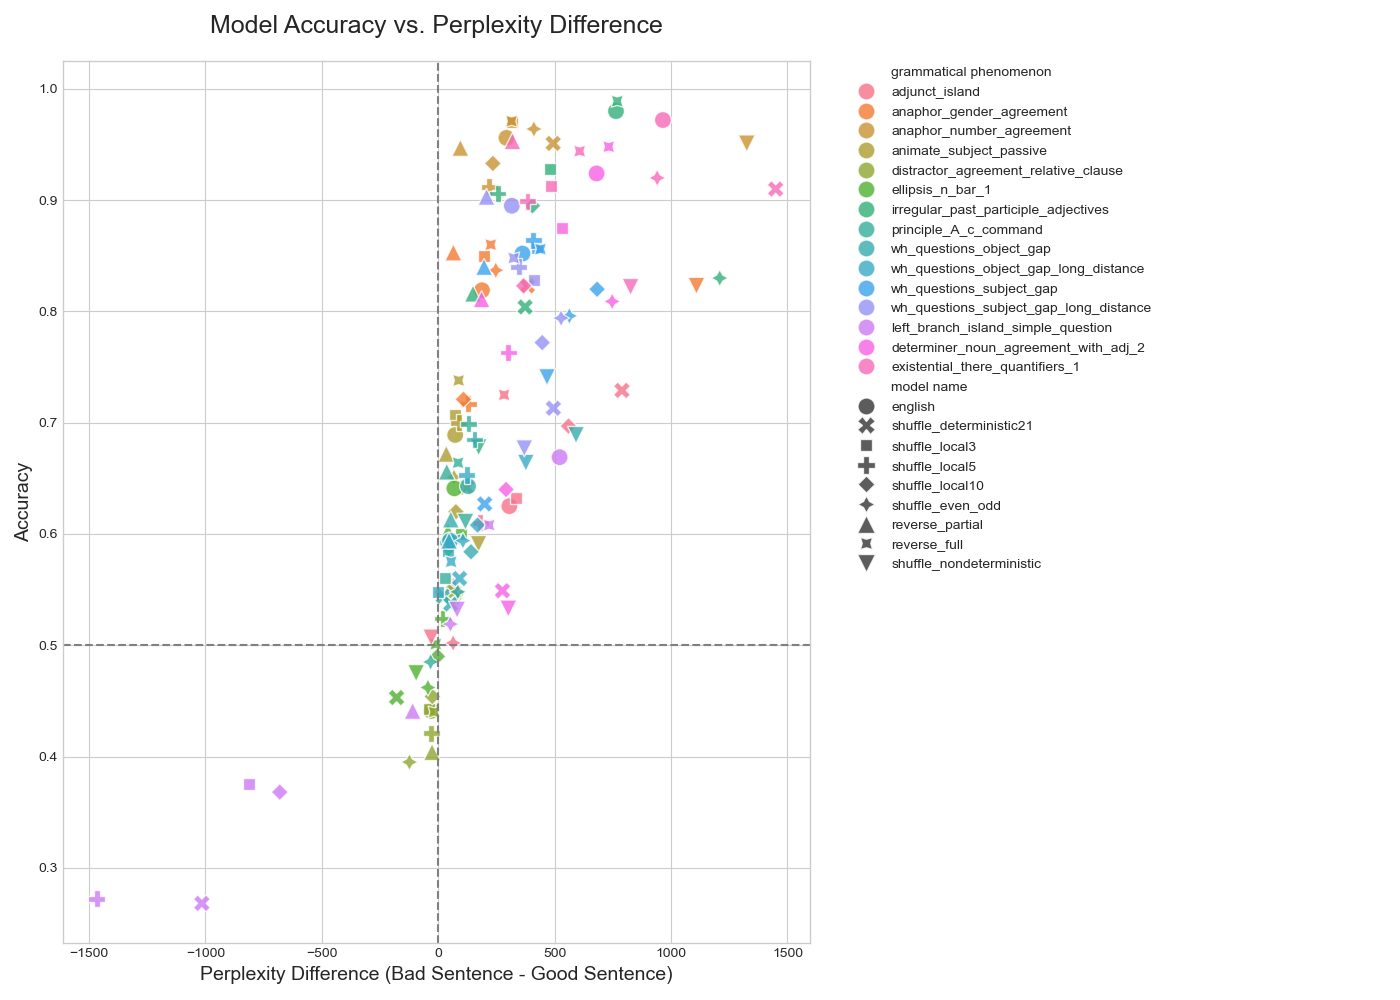
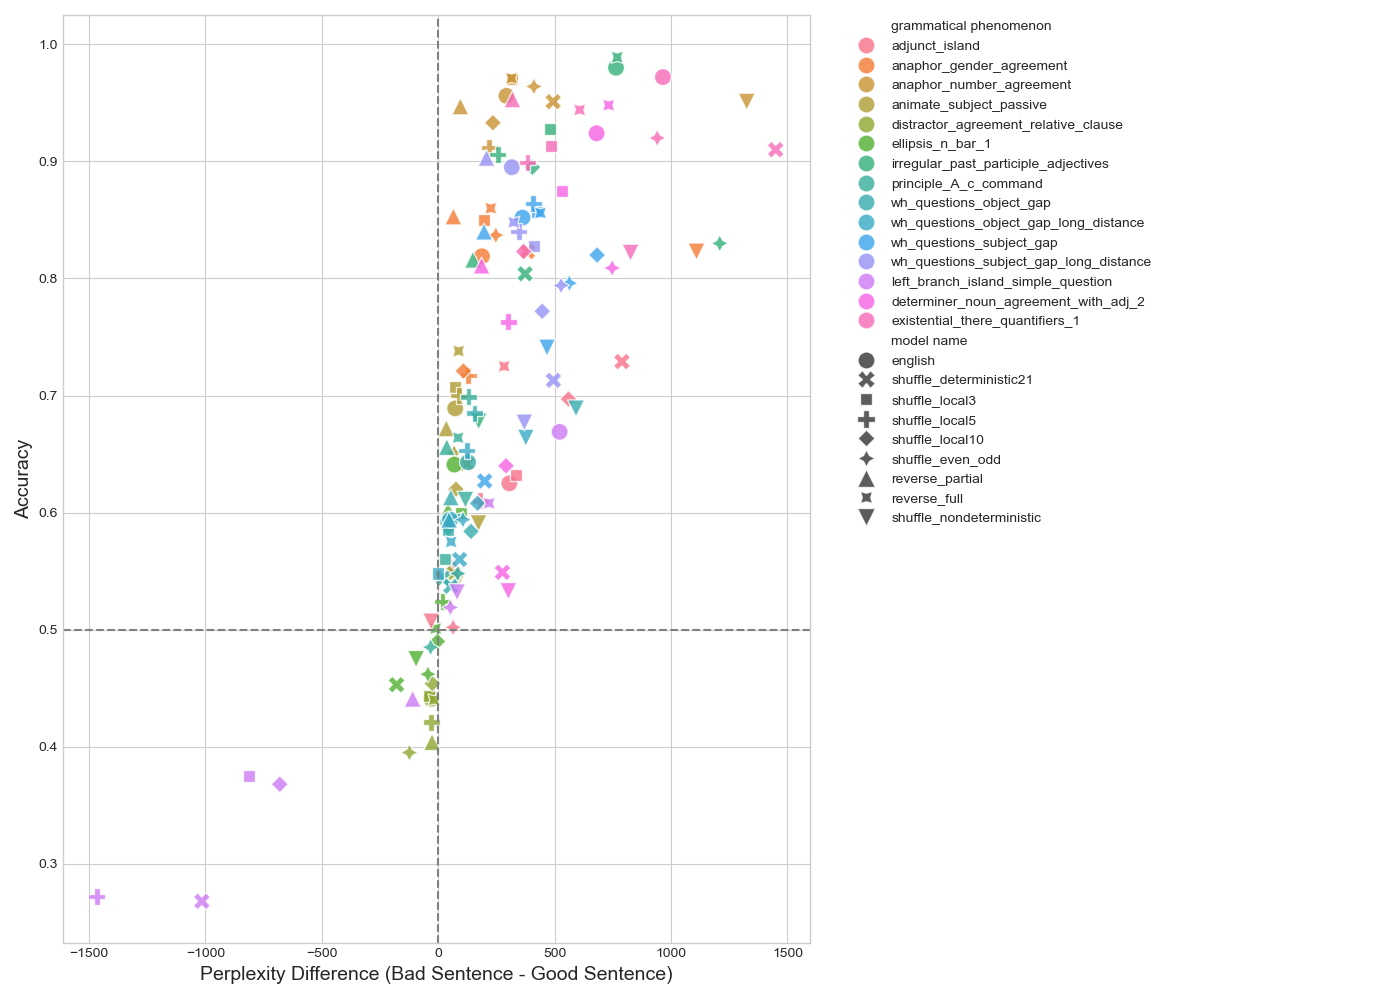
Add script for plotting phenomena grouped counts. Remove title from perplexity plot

diff --git a/analysis/performance_statistics.py b/analysis/performance_statistics.py
@@ -83,6 +83,42 @@ MODEL_ORDER = [
     "shuffle_nondeterministic",
 ]
 
+def plot_phenomenon_group_counts(
+    csv_path: str = "experiments/output/v2/results.csv",
+    output_path: str = "analysis/output/phenomenon_group_counts.png"
+):
+    """
+    Plots a PNG image: x-axis is phenomenon groups (PHENOMENA_ORDER, labeled with PHENOMENA_ABR),
+    one row is the count of unique phenomena in each group (from results.csv).
+    """
+    import matplotlib.pyplot as plt
+    import os
+    df = pd.read_csv(csv_path)
+    present_phenomena = set(df["grammatical phenomenon"].unique())
+    group_counts = {g: 0 for g in PHENOMENA_ORDER}
+    for p, g in PHENOMENA_LIST_MAP.items():
+        if p in present_phenomena and g in PHENOMENA_ORDER:
+            group_counts[g] += 1
+    # Prepare data for plotting
+    x_labels = [PHENOMENA_ABR.get(g, g) for g in PHENOMENA_ORDER]
+    counts = [group_counts[g] for g in PHENOMENA_ORDER]
+    # Plot
+    fig, ax = plt.subplots(figsize=(max(8, len(x_labels)), 3))
+    ax.imshow([counts], cmap="Blues", aspect="auto")
+    # Set x-ticks and labels
+    ax.set_xticks(range(len(x_labels)))
+    ax.set_xticklabels(x_labels, rotation=30, ha='right')
+    ax.set_yticks([0])
+    ax.set_yticklabels(["# Phenomena"], rotation=0)
+    # Annotate counts
+    for i, count in enumerate(counts):
+        ax.text(i, 0, str(count), va='center', ha='center', color='black', fontsize=14, fontweight='bold')
+    plt.tight_layout()
+    os.makedirs(os.path.dirname(output_path), exist_ok=True)
+    plt.savefig(output_path, dpi=200, bbox_inches='tight')
+    plt.close()
+    print(f"Phenomenon group counts image saved to {output_path}")
+
 def plot_model_group_performance_table(
     csv_path: str = "experiments/output/v2/results.csv",
     output_dir: str = "analysis/output",
@@ -215,28 +251,29 @@ def percent_non_english_best_model(csv_path="experiments/output/v2/results.csv")
     return percent
 
 def main():
-    save_performance_table_image(PHENOMENA_LIST, output_filename="performance_table_overall.png")
-    save_performance_table_image([
-            "anaphor_gender_agreement",
-            "anaphor_number_agreement",
-            "animate_subject_passive",
-            "determiner_noun_agreement_with_adj_2",
-            "existential_there_quantifiers_1"
-        ], output_filename="performance_table_local.png")
-    save_performance_table_image([
-        "adjunct_island",
-        "distractor_agreement_relative_clause",
-        "ellipsis_n_bar_1",
-        "principle_A_c_command",
-        "wh_questions_object_gap",
-        "wh_questions_object_gap_long_distance",
-    ], output_filename="performance_table_structural.png")
-    save_performance_table_image([
-        "wh_questions_subject_gap",
-        "wh_questions_subject_gap_long_distance",
-    ], output_filename="performance_table_subject.png")
-    plot_model_group_performance_table()
     # percent_non_english_best_model()
+    # save_performance_table_image(PHENOMENA_LIST, output_filename="performance_table_overall.png")
+    # save_performance_table_image([
+    #         "anaphor_gender_agreement",
+    #         "anaphor_number_agreement",
+    #         "animate_subject_passive",
+    #         "determiner_noun_agreement_with_adj_2",
+    #         "existential_there_quantifiers_1"
+    #     ], output_filename="performance_table_local.png")
+    # save_performance_table_image([
+    #     "adjunct_island",
+    #     "distractor_agreement_relative_clause",
+    #     "ellipsis_n_bar_1",
+    #     "principle_A_c_command",
+    #     "wh_questions_object_gap",
+    #     "wh_questions_object_gap_long_distance",
+    # ], output_filename="performance_table_structural.png")
+    # save_performance_table_image([
+    #     "wh_questions_subject_gap",
+    #     "wh_questions_subject_gap_long_distance",
+    # ], output_filename="performance_table_subject.png")
+    # plot_model_group_performance_table()
+    plot_phenomenon_group_counts()
 
 if __name__ == "__main__":
     main()

diff --git a/analysis/perplexity_scatterplot.py b/analysis/perplexity_scatterplot.py
@@ -29,7 +29,7 @@ scatter = sns.scatterplot(
     ax=ax
 )
 
-ax.set_title('Model Accuracy vs. Perplexity Difference', fontsize=18, pad=20)
+# ax.set_title('Model Accuracy vs. Perplexity Difference', fontsize=18, pad=20)
 ax.set_xlabel('Perplexity Difference (Bad Sentence - Good Sentence)', fontsize=14)
 ax.set_ylabel('Accuracy', fontsize=14)
 
